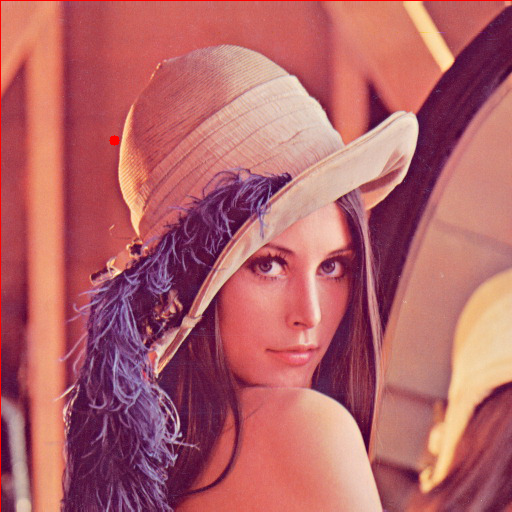
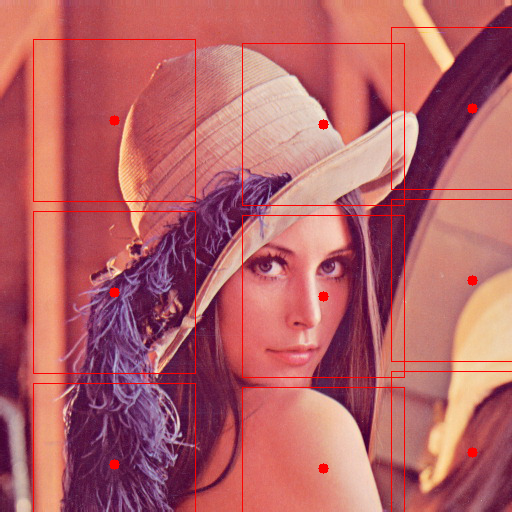
labeling 3 rois at a time

diff --git a/labelcenters/labelcenters.py b/labelcenters/labelcenters.py
@@ -5,7 +5,12 @@ import pandas as pd
 # set global variable of click list to save to csv
 global clickdict
 clickdict = {}  
-       
+
+global aoisidelength
+global aoispacelength
+
+aoisidelength = 162
+aoispacelength = 10       
 
 # function to display the coordinates of
 # of the points clicked on the image 
@@ -24,18 +29,41 @@ def click_event(event, x, y, flags, params):
         # cv2.putText(img, str(x) + ',' + str(y), (x,y), font, 1, (255, 0, 0), 2)
 
         # draw a circle over the center of the radius
-        cv2.circle(img, (x+81,y+81), radius=5, color=(0, 0, 255), thickness=-1)
+        cv2.circle(img, (x+(aoisidelength//2),y+(aoisidelength//2)), radius=5, color=(0, 0, 255), thickness=-1)
 
         # draw a rectangle the size of the ROI
-        cv2.rectangle(img, (x,y), (x+162,y+162), color=(0, 0, 255), thickness=1)
+        cv2.rectangle(img, (x,y), (x+aoisidelength,y+aoisidelength), color=(0, 0, 255), thickness=1)
+
+        # save click to dict, first name click ordinally, then assign tuple to click
+        clickname = "click" + str(len(clickdict))
+        clickdict[clickname] = (x,y)
+
+        x1,y1 = x, y+aoisidelength+aoispacelength
+
+        cv2.circle(img, (x1+(aoisidelength//2),y1+(aoisidelength//2)), radius=5, color=(0, 0, 255), thickness=-1)
+
+        cv2.rectangle(img, (x1,y1), (x1+aoisidelength,y1+aoisidelength), color=(0, 0, 255), thickness=1)
+
+        # save click to dict, first name click ordinally, then assign tuple to click
+        clickname = "click" + str(len(clickdict))
+        clickdict[clickname] = (x1,y1)
+
+        x2,y2 = x1, y1+aoisidelength+aoispacelength
+        
+        cv2.circle(img, (x2+(aoisidelength//2),y2+(aoisidelength//2)), radius=5, color=(0, 0, 255), thickness=-1)
+
+        cv2.rectangle(img, (x2,y2), (x2+aoisidelength,y2+aoisidelength), color=(0, 0, 255), thickness=1)
+
+        # save click to dict, first name click ordinally, then assign tuple to click
+        clickname = "click" + str(len(clickdict))
+        clickdict[clickname] = (x2,y2)
+
         # cv2.rectangle(img, (x-81,y-81), (x+81,y+81), color=(0, 0, 255), thickness=5)
 
         # show image
         cv2.imshow('image', img)
 
-        # save click to dict, first name click ordinally, then assign tuple to click
-        clickname = "click" + str(len(clickdict))
-        clickdict[clickname] = (x,y)
+        
 
         
   
@@ -60,7 +88,8 @@ if __name__=="__main__":
 
     # let the user know how to label
     # print("Click at the center of where the ROI should be. \n Select ROIs left to right, up to down (starting from top left and ending at bottom right). \n")
-    print("Click at the top left corner of where the ROI should begin. \n Select ROIs left to right, up to down (starting from top left and ending at bottom right). \n")
+    #print("Click at the top left corner of where the ROI should begin. \n Select ROIs left to right, up to down (starting from top left and ending at bottom right). \n")
+    print("Click at the top left corner of where the column of ROIs should begin. \n Select ROI columns left to right (starting from top left). \n")
 
     # let the user know how to exit
     print("Exit by hitting any key on the keyboard.")
